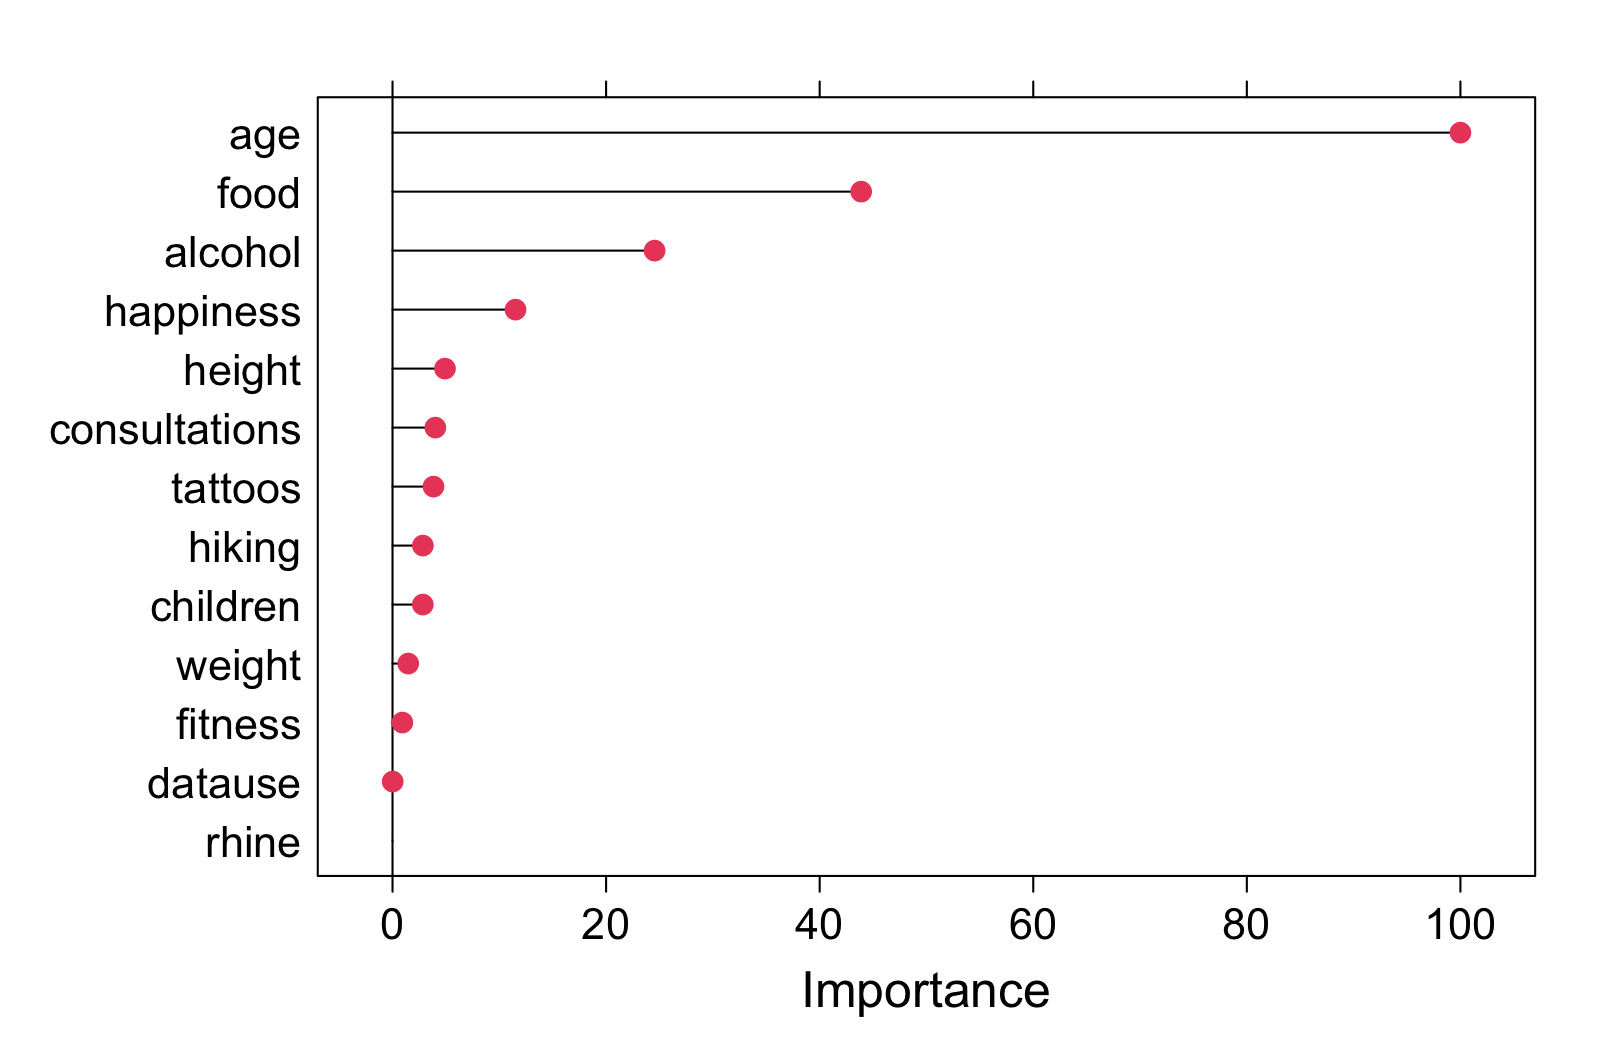
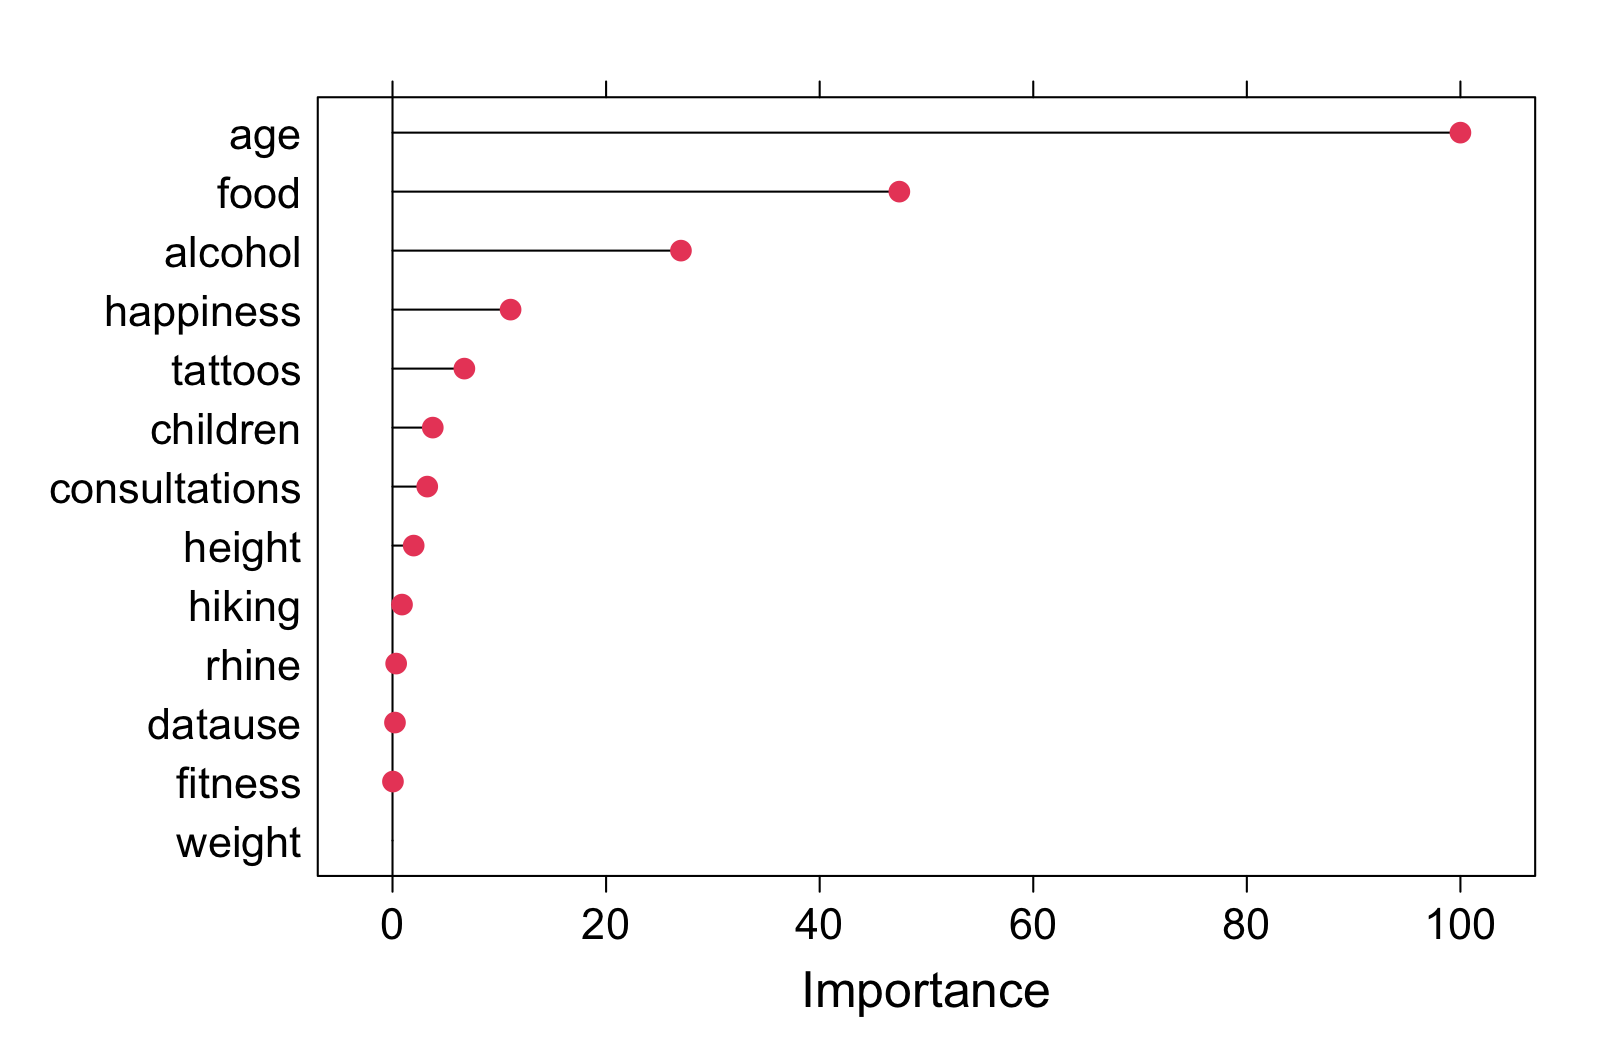
efwe

diff --git a/_sessions/Features/Features.html b/_sessions/Features/Features.html
@@ -167,15 +167,15 @@ lm variable importance
 
           Overall
 age       100.000
-food       43.595
-alcohol    24.068
-happiness  11.493
-height      4.088
-tattoos     3.777
-children    2.693
-weight      1.790
-fitness     0.842
-datause     0.000
+food       47.714
+alcohol    27.108
+happiness  11.606
+tattoos     7.243
+children    4.060
+height      1.748
+datause     0.667
+fitness     0.423
+weight      0.000
 ```
 
 ]
@@ -225,15 +225,15 @@ Outer resampling method: Bootstrapped (25 reps)
 
 Resampling performance over subset size:
 
- Variables  RMSE Rsquared   MAE  RMSESD RsquaredSD   MAESD Selected
-         3 0.372    0.867 0.297 0.00810     0.0118 0.00703         
-         4 0.370    0.868 0.293 0.00768     0.0116 0.00732        *
-         5 0.371    0.868 0.294 0.00746     0.0111 0.00797         
-        10 0.374    0.866 0.296 0.00898     0.0120 0.00878         
-        14 0.374    0.865 0.296 0.00897     0.0121 0.00842         
+ Variables  RMSE Rsquared   MAE RMSESD RsquaredSD   MAESD Selected
+         3 0.369    0.867 0.292 0.0120    0.01083 0.00990         
+         4 0.368    0.868 0.289 0.0117    0.01085 0.01006         
+         5 0.367    0.869 0.288 0.0106    0.00989 0.00921        *
+        10 0.368    0.867 0.290 0.0116    0.01044 0.00967         
+        14 0.369    0.867 0.290 0.0116    0.01029 0.00987         
 
-The top 4 variables (out of 4):
-   age, food, alcohol, happiness
+The top 5 variables (out of 5):
+   age, food, alcohol, happiness, tattoos
 ```
 
 ]
@@ -478,7 +478,7 @@ duw
 
 class: middle, center
 
-&lt;h1&gt;&lt;a href="https://therbootcamp.github.io/appliedML_2019Jan/_sessions/Features/Features_practical.html&gt;"&lt;/a&gt;Practical&lt;/h1&gt;
+&lt;h1&gt;&lt;a href="https://therbootcamp.github.io/appliedML_2019Jan/_sessions/Features/Features_practical.html"&gt;Practical&lt;/a&gt;&lt;/h1&gt;
     </textarea>
 <script src="https://remarkjs.com/downloads/remark-latest.min.js"></script>
 <script>var slideshow = remark.create({
